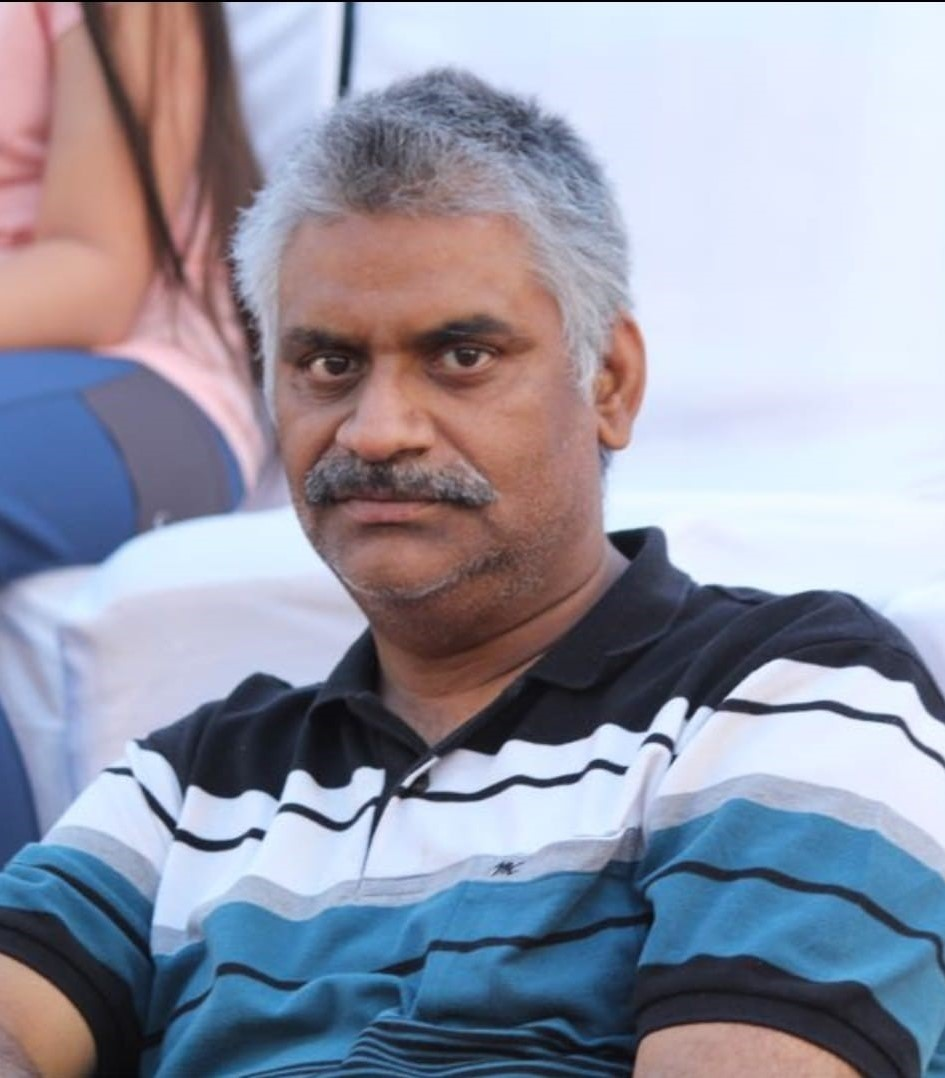
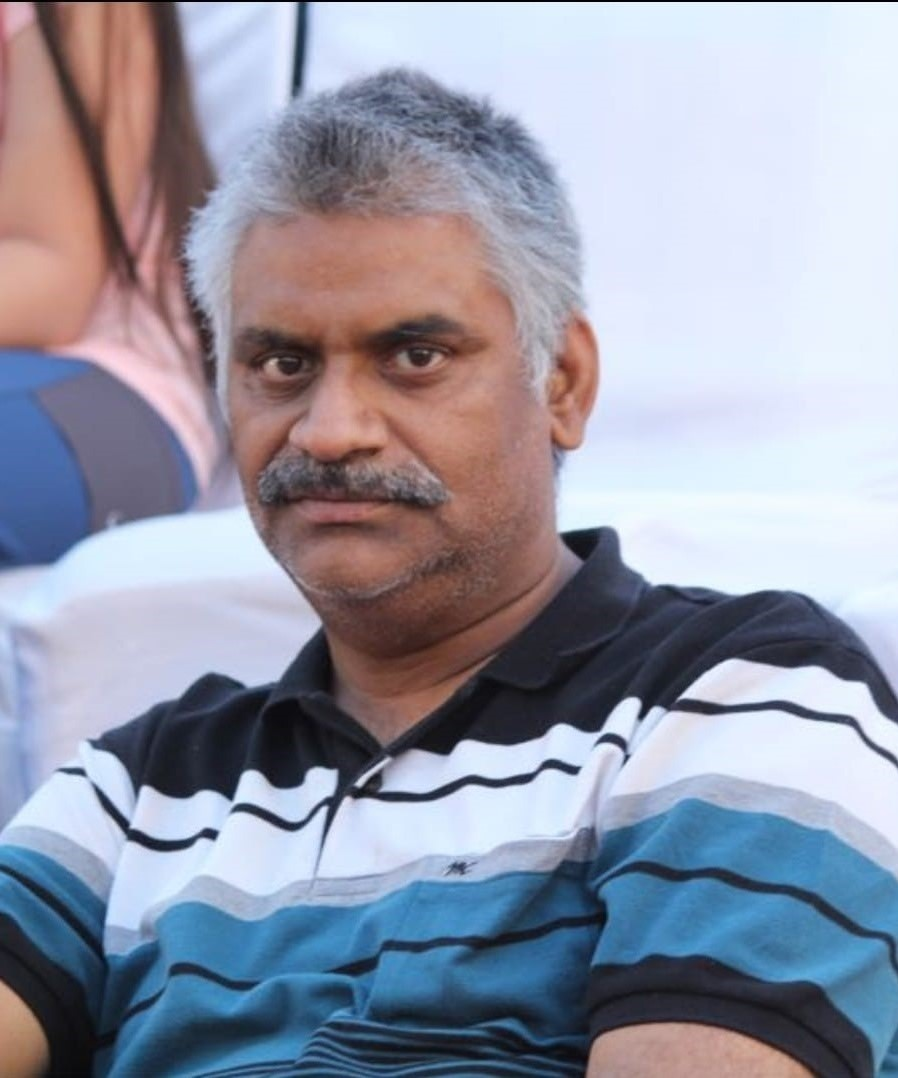
minor changes

diff --git a/html/fourth.html b/html/fourth.html
@@ -63,7 +63,7 @@
             <div class="container">
                 <!-- Sec Title -->
                 <div class="sec-title centered">
-                    <div class="title">Our Presidents</div>
+                    <div class="title">Our Mentors</div>
                     <div class="separator"><span></span></div>
                     <h2></h2>
                 </div>
@@ -157,7 +157,7 @@
                                 <li><a href="https://www.linkedin.com/in/sanchay-sindhwani-a69322132" target="_blank"><i class="fab fa-linkedin-in"></i></a></li>
                             </ul>
                             <div class="image">
-                                <img src="../media/images/sanchay.jpg" alt="" />
+                                <img src="../media/images/sanchay2.jpg" alt="" />
                             </div>
                             <div class="lower-content">
                                 <h3>Sanchay Sindhwani</h3>

diff --git a/css/fourth.css b/css/fourth.css
@@ -399,10 +399,12 @@ border-radius: 25px;
 
         
 .team-block .inner-box .lower-content .designation{
-    position:relative;
+    position: relative;
+    display: flex;
     margin-top:5px;
     color:#bd0000;
     font-size:16px;
+    margin-bottom: 40px;
     }
     
 
